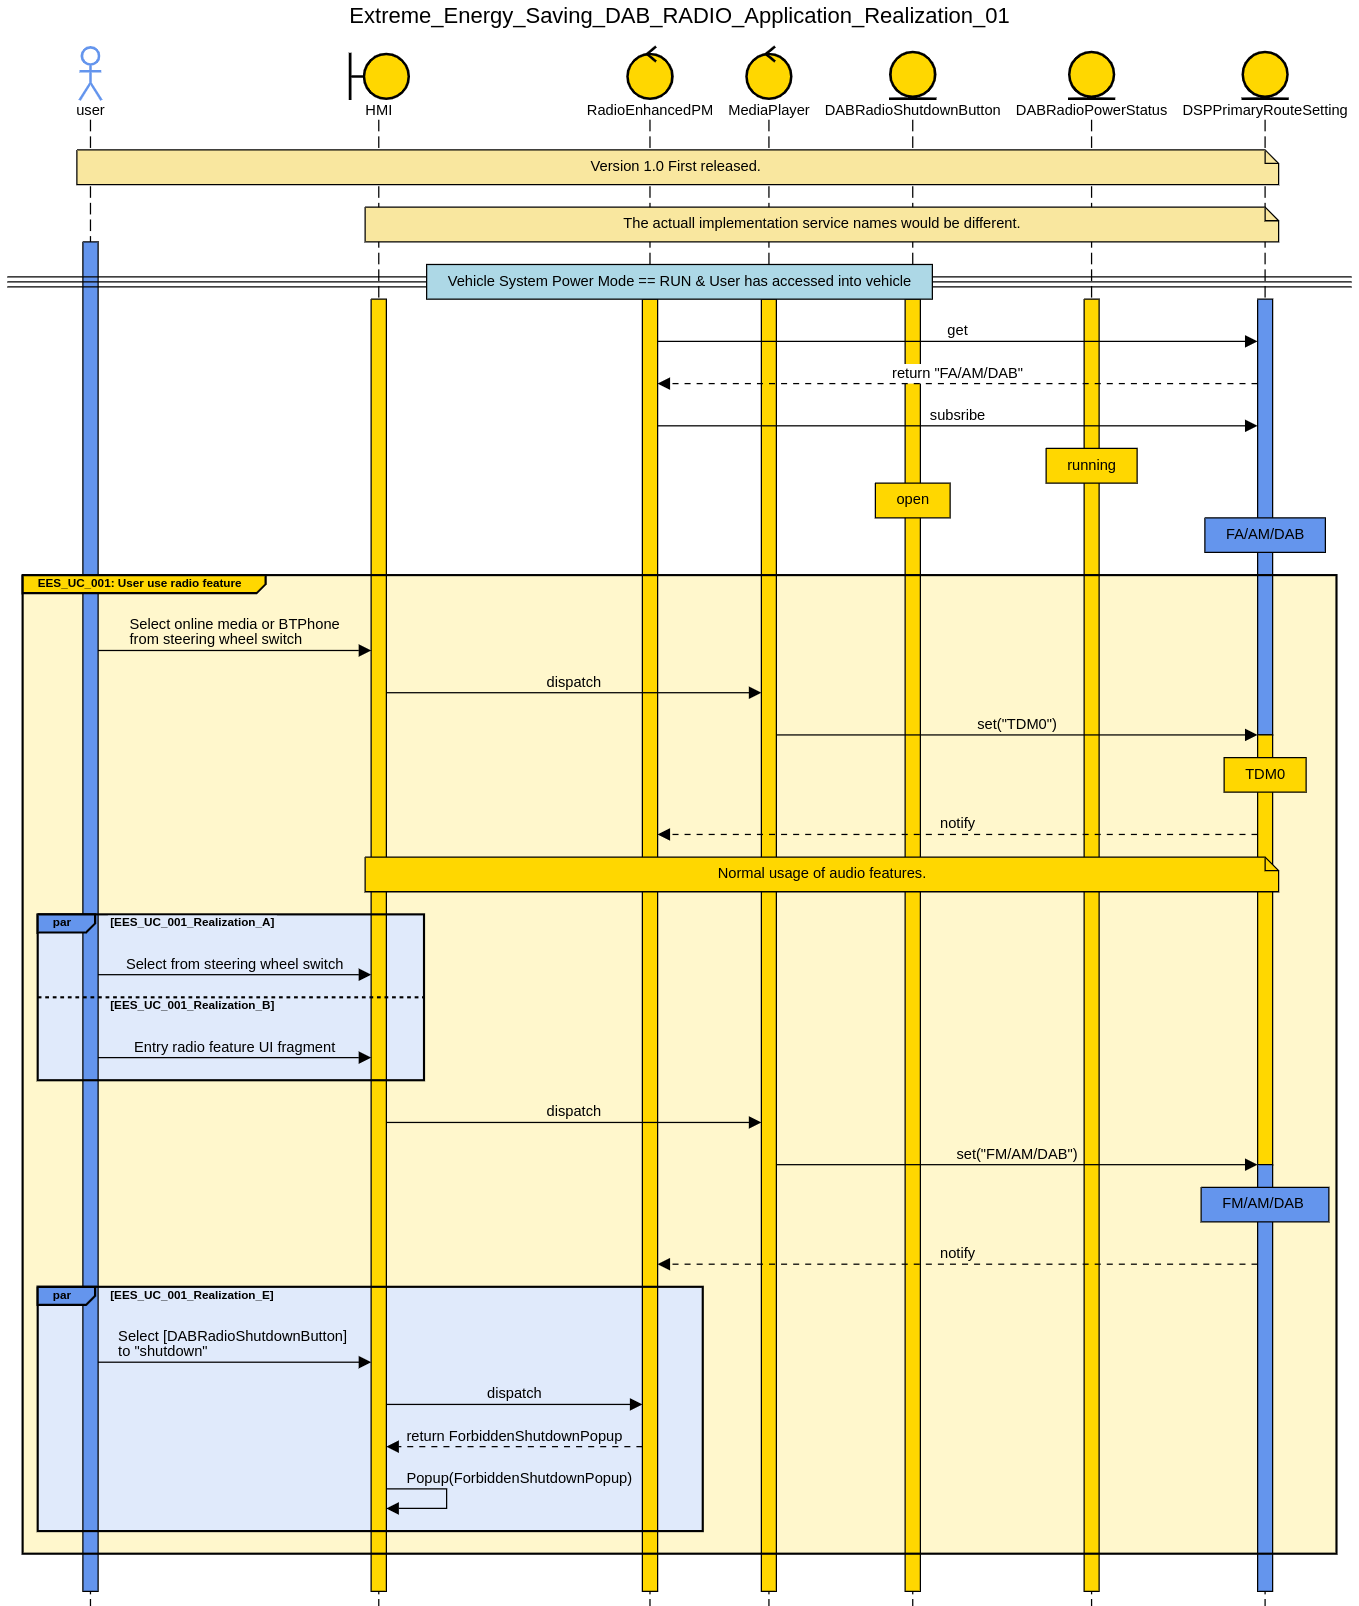
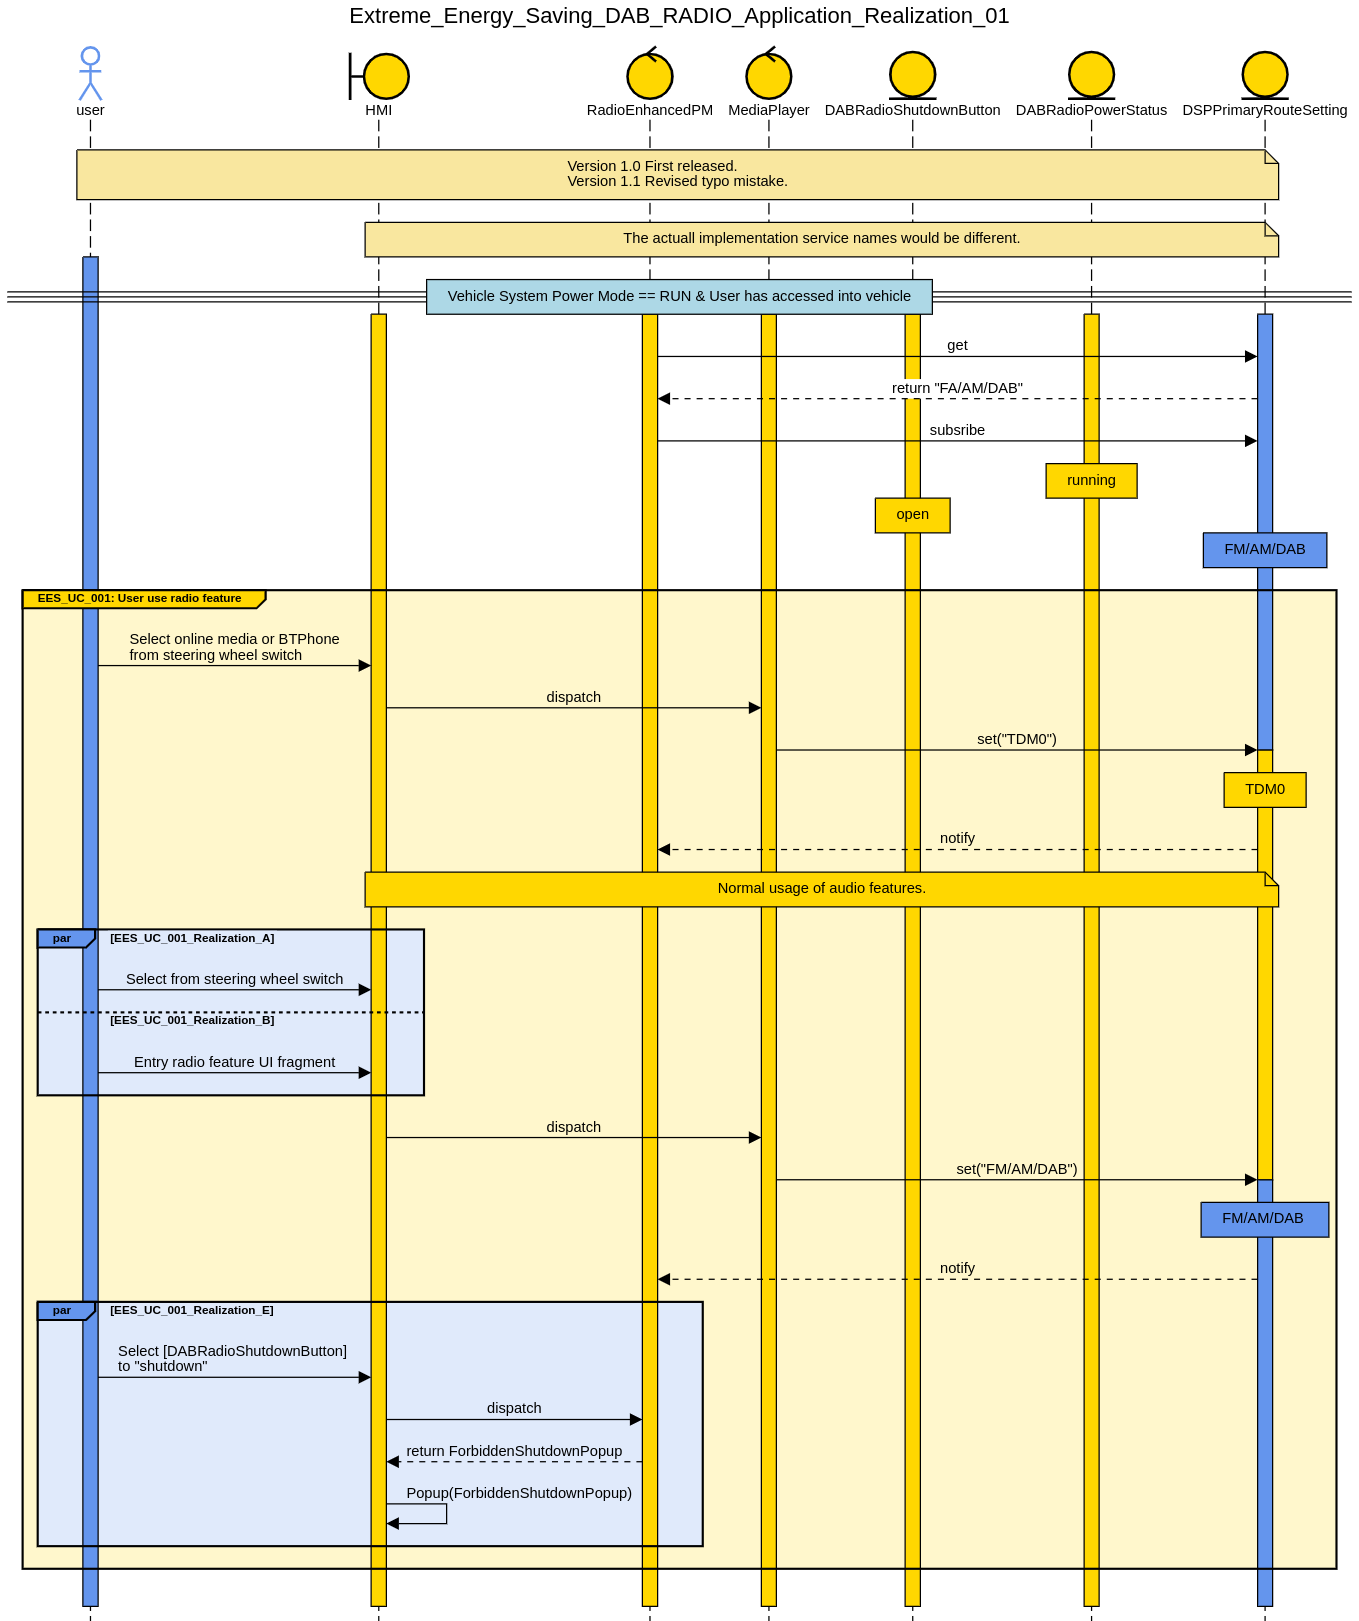
Fixed the typos for the first release.

diff --git a/docs/system_requirements.md b/docs/system_requirements.md
@@ -2,9 +2,10 @@
 
 ## 0 Legend
 
-| Version | Description     | Date       | Author                              |
-| ------- | --------------- | ---------- | ----------------------------------- |
-| 1.0     | First released. | 2023-12-11 | 罗均<br/>冯恺<br/>吴元春<br/>何蕾涛 |
+| Version | Description      | Date       | Author                              |
+| ------- | ---------------- | ---------- | ----------------------------------- |
+| 1.0     | First released.  | 2023-12-11 | 罗均<br/>冯恺<br/>吴元春<br/>何蕾涛 |
+| 1.1     | Fixed the typos. | 2023-12-12 | 罗均                                |
 
 ## 1 Overview
 
@@ -61,7 +62,7 @@ This documentation is **ONLY** applicable for _SAIC FICM2712 Platform with exter
 - OFCOM standards
 - etc.
 
-Accessment: If the customer has physically and purposefully switched the radio unit off. Then should be ok for no broadcast functionality. The unit should not switch itself off whiledriving.  It must be a customer intervention.
+Accessment: If the customer has physically and purposefully switched the radio unit off. Then should be ok for no broadcast functionality. The unit should not switch itself off while driving.  It must be a customer intervention.
 
 ## 3 Entities
 
@@ -119,7 +120,7 @@ Note: More DSPPrimaryRouteSetting details refers to [MT2712 FICM Audio Path](#mt
   "DataType": "Enumeration",
   "ValueRange": { "FM": 0, "AM": 1, "DAB": 2, "EWS": 3 },
   "InitialValue": "FM",
-  "Comments": ""
+  "Comments": "EWS stands for Emergency Warning System."
 }
 ```
 
@@ -252,13 +253,12 @@ User is **ALWAYS** to have radio feature while [DABRadioPowerStatus](#req_ees_en
 - Pre-conditions:
   - FICM [HeadunitPowerMode](#req_ees_ent_000_headunitpowermode) is at _running_
   - [DABRadioShutdownButton](#req_ees_ent_010_dabradioshutdownbutton) button has been in _open_ status
-  - [DSPPrimaryRouteSetting](#req_ees_ent_002_dspprimaryroutesetting) is set at _FM/AM/\_TDM0_
+  - [DSPPrimaryRouteSetting](#req_ees_ent_002_dspprimaryroutesetting) is set at _TDM0_
 - Activity:
   - User clicks [DABRadioShutdownButton](#req_ees_ent_010_dabradioshutdownbutton)
   - User has been informed by [RadioShutdownRiskTermsConditions](#req_ees_ent_021_radioshutdownrisktermsconditions)
   - User clicks **DISACCEPT** of [RadioShutdownRiskTermsConditions](#req_ees_ent_021_radioshutdownrisktermsconditions)
 - Post-conditions (expectation):
-  - [ForbiddenShutdownPopup](#req_ees_ent_020_forbiddenshutdownpopup) shows up
   - [DABRadioShutdownButton](#req_ees_ent_010_dabradioshutdownbutton) button keeps in _open_ status
   - [DABRadioPowerStatus](#req_ees_ent_001_dabradiopowerstatus) has keeps in _running_ status
 

diff --git a/README.md b/README.md
@@ -1,1 +1,3 @@
 # extreme_energy_saving_dab_radio
+
+Please view the [system_requirements](./docs/system_requirements.md)
